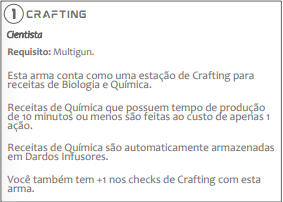
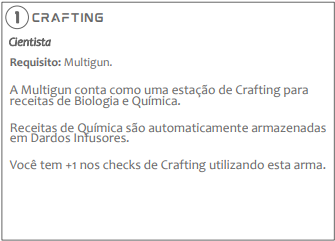
adjustments based on feedback

Changed region(s): [[0.0, 0.0, 1.0, 1.0]]

diff --git a/docs/0_complete/2_galactic_force/abilities.md b/docs/0_complete/2_galactic_force/abilities.md
@@ -1,13 +1,12 @@
 ## A.N.E.
 
-### Camuflagem
+### Escudo Pessoal
 
-**Requisito:** A.N.E. Leve.  
-**Ações:** 1 Ação.  
-**Custo:** 1 Caos.  
-**Duração:** Countdown 3 durante combate. Até você realizar 3 Ações - que não sejam movimento - fora de combate.
+**Ações:** 1 Ação/1 Reação.  
+**Custo:** 1 Caos/1 Stress.  
+**Duração:** Countdown 3 durante combate. 15 minutos fora de combate.
 
-Você está Escondido.
+Todos seus limites de dano são aumentados em < seu nível>.  Esta habilidade pode ser utilizada como Reação ao custo adicional de 1 Stress.
 
 ### Visão Aprimorada
 
@@ -29,6 +28,19 @@ Você está Escondido.
 
 Faça um ataque contra uma criatura. Em caso de sucesso, alvo recebe Dano Persistente 2.
 
+### Camuflagem
+
+**Requisito:** A.N.E. Leve.  
+**Ações:** 1 Ação.  
+**Custo:** 1 Caos.  
+**Duração**: Countdown 3 durante combate. 
+15 minutos fora de combate. Efeito acaba no momento que você realizar 3 ações que forcem um check seu ou de outra criatura.
+
+•	Você está escondido.
+•	Você tem +1 em checks para se esgueirar.
+•	Criaturas tem -1 em checks de Sentidos com visão contra você.
+•	Ataques durante Camuflagem têm +2 no check e causam < seu nível> de dano adicional
+
 ### Carga Elemental
 
 **Requisito:** Arco-Caos  
@@ -37,9 +49,9 @@ Faça um ataque contra uma criatura. Em caso de sucesso, alvo recebe Dano Persis
 
 Seus próximos 3 ataques com esta arma causam < seu nível> de dano Químico (Fogo ou Gelo) adicional.
 
-### Golpe Certeiro
+<!-- ### Golpe Certeiro
 
-<ins>Sempre</ins> que você realizar um ataque com modificadores positivos, adicione < seu nível> ao dano.
+<ins>Sempre</ins> que você realizar um ataque com modificadores positivos, adicione < seu nível> ao dano. -->
 
 ## Capitão
 
@@ -91,7 +103,15 @@ Você obtém as seguintes informações até alcance Longe:
 
 Escolha alguma arma de lâmina (como uma espada, faca, etc). Gaste um composto químico Elemental. Arma escolhida causa < seu nível> dano Químico (Fogo, Gelo, Ácido, Veneno) adicional.
 
-### Tiro & Efeito
+### Solução Rápida
+
+**Requisito:** Multigun.  
+**Ações:** 1 Ação.  
+**Custo:** 1 Caos.
+
+Ao tempo de 1 ação, você consegue fabricar até 2 compostos químicos com tempo de produção de 10min ou menos.
+
+<!-- ### Tiro & Efeito
 
 **Requisito:** Multigun.  
 **Ações:** 1 Ação.  
@@ -99,7 +119,7 @@ Escolha alguma arma de lâmina (como uma espada, faca, etc). Gaste um composto q
 
 Você consegue atacar e lançar um dardo ao mesmo tempo.
 
-Faça um ataque contra um alvo. Cause o dano da Multigun, e escolha um dardo infusor para causar o efeito de um componente químico junto.
+Faça um ataque contra um alvo. Cause o dano da Multigun, e escolha um dardo infusor para causar o efeito de um componente químico junto. -->
 
 ## Engenheiro
 

diff --git a/docs/0_complete/2_galactic_force/moves.md b/docs/0_complete/2_galactic_force/moves.md
@@ -16,13 +16,11 @@
 | 5         | Você causa < seu nível> de dano extra no seu próximo ataque com esta arma.            |
 | 6         | Você causa o dobro do < seu nível> de dano extra no seu próximo ataque com esta arma. |
 
-## Drone Forja - Conexão
+## Drone Forja - Forja & Conexão
+
+1 Ação. Drone se transforma em uma estação de Crafting para receitas de Engenharia. Você tem +1 nos checks de Crafting usando o drone.  
 
 1 Ação. Você consegue acessar os sentidos de visão e audição através do drone.
-
-## Drone Forja - Modo: Forja
-
-2 Ações. Drone se transforma em uma estação de Crafting para receitas de Engenharia. Além disso, você tem +1 nos checks de Crafting usando o drone.
 
 ## Multigun - Crafting
 

diff --git a/docs/0_complete/2_galactic_force/index.md b/docs/0_complete/2_galactic_force/index.md
@@ -17,7 +17,7 @@
 - **Armas:** Arco-Caos, Lâmina Fragmento
 - **Armadura:** A.N.E. Leve
 - **Equipamentos:** 1x Armadilha, 1x Kit Médico Simples
-- **Habilidades:** Golpe Certeiro
+- **Habilidades:** Camuflagem
 - **Aprimoramentos:** A.N.E., Arco-Caos e Lâmina Fragmento
 - **Atributos Recomendados:** Agilidade e Controle
 
